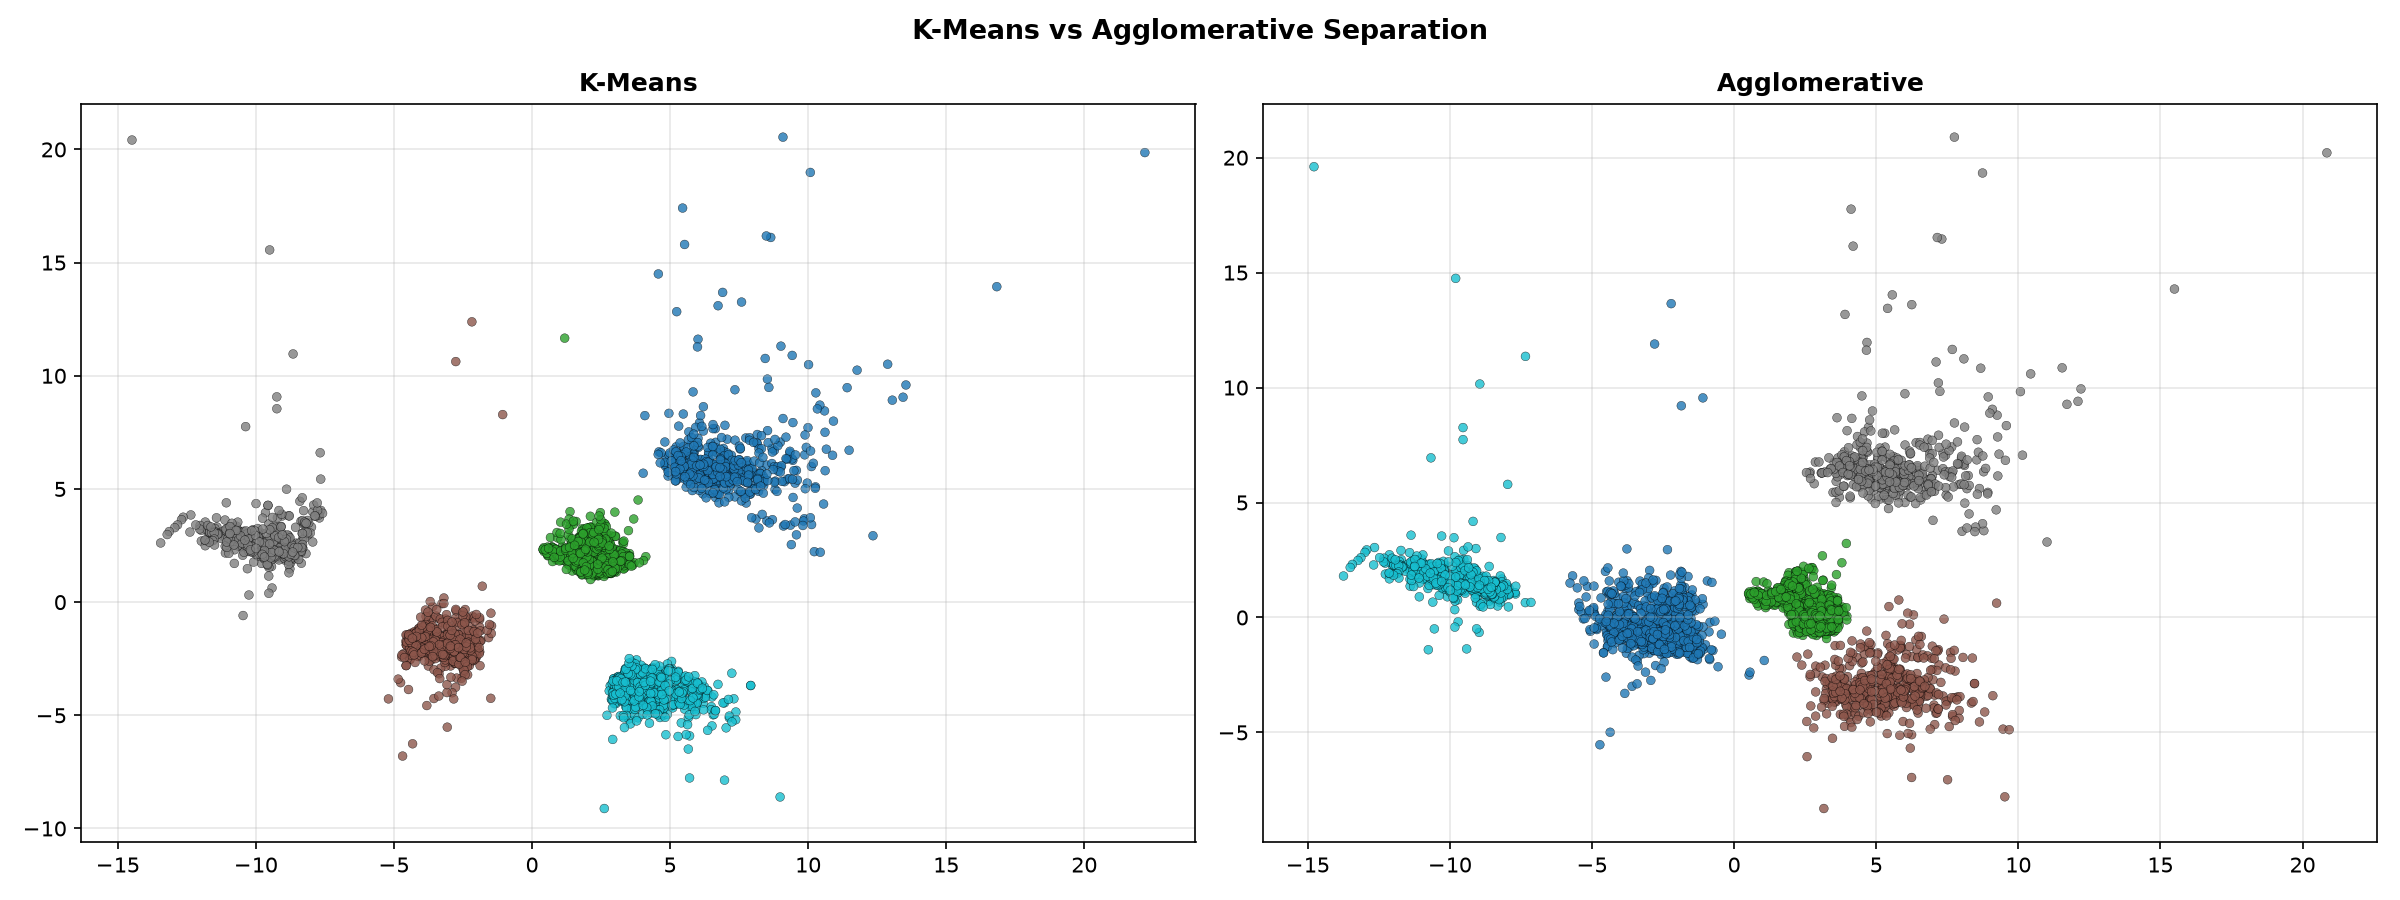
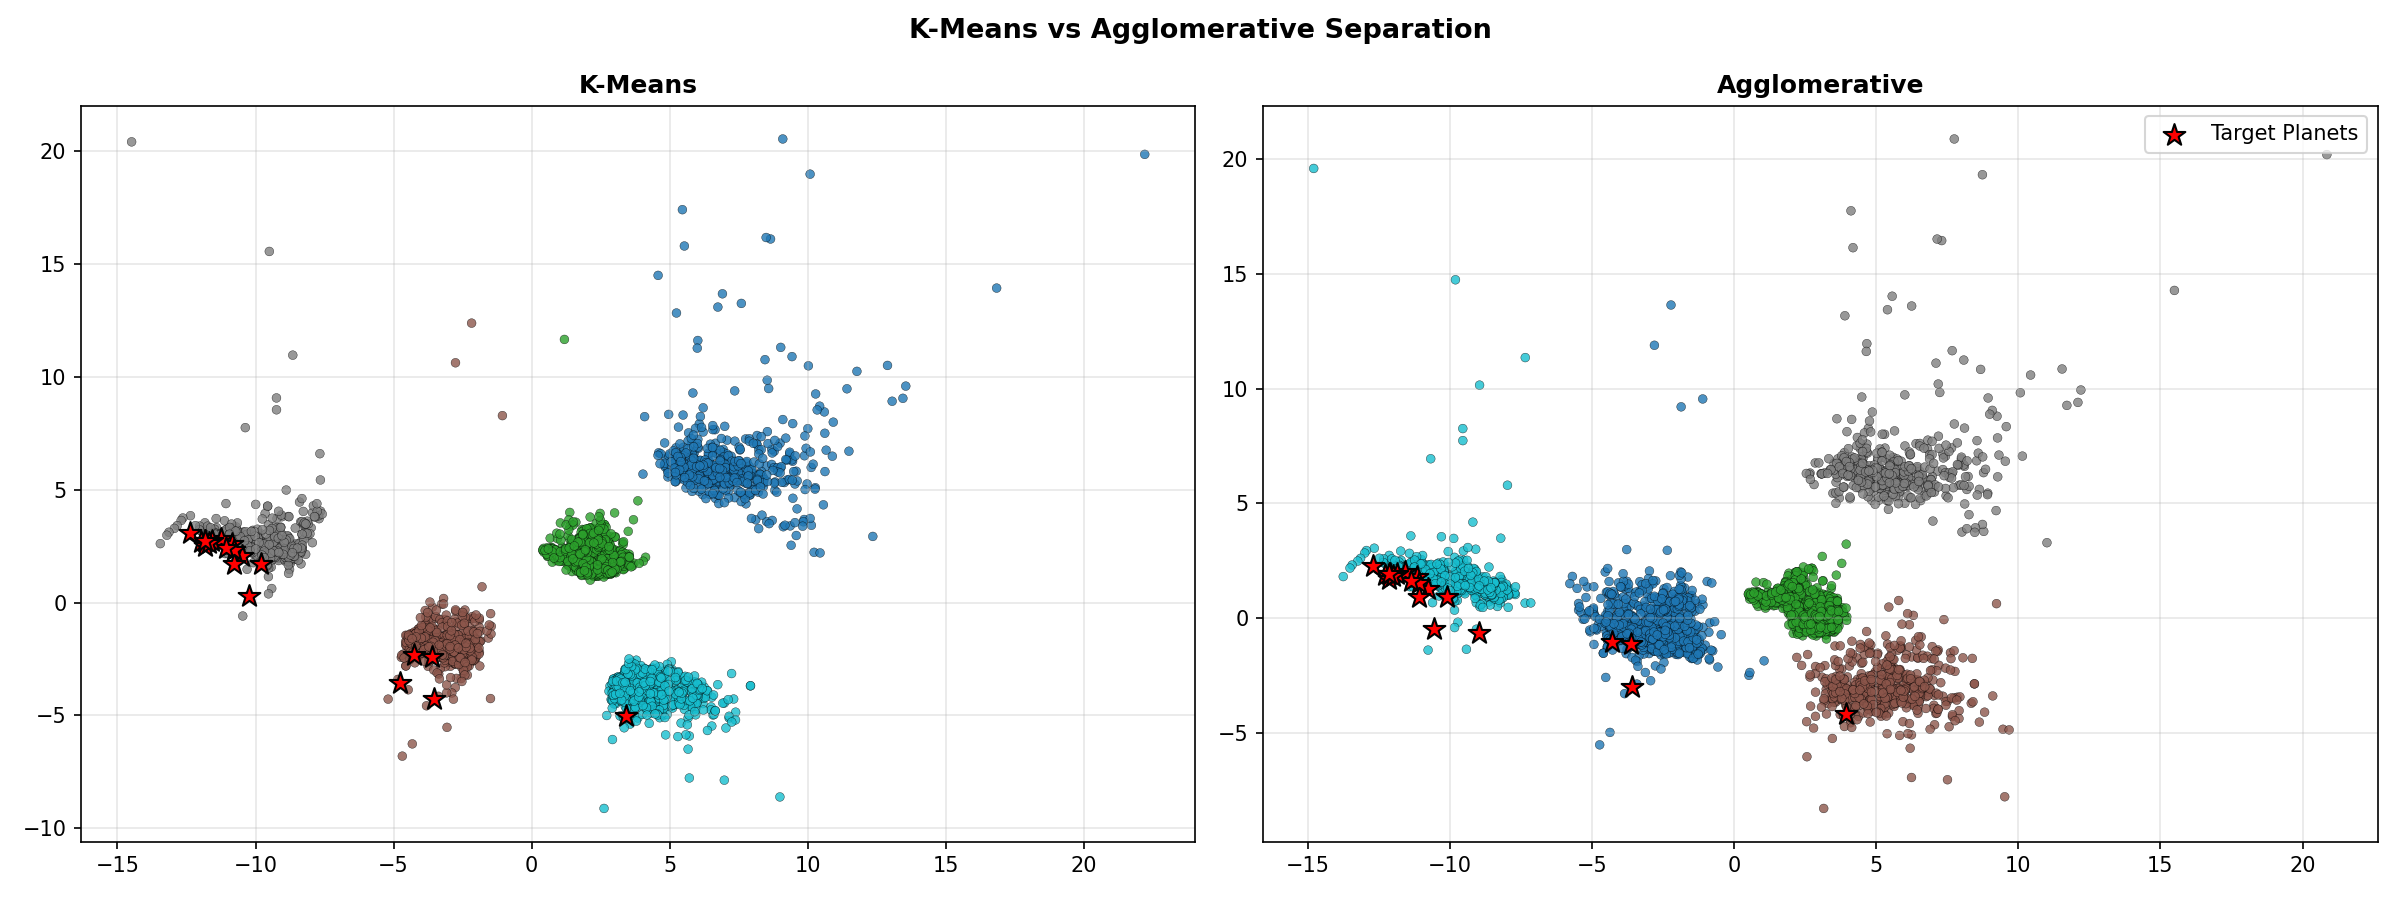
Update paper to use side-by-side clustering images

diff --git a/dm.py b/dm.py
@@ -22,6 +22,8 @@ ALL FIXES INTEGRATED:
 
 import pandas as pd
 import numpy as np
+import matplotlib
+matplotlib.use('Agg')
 import matplotlib.pyplot as plt
 import matplotlib.patches as mpatches
 import seaborn as sns
@@ -684,6 +686,22 @@ sc = ax.scatter(
     linewidths=0.2
 )
 
+# Highlight target planets
+target_mask = df_feat["pl_name"].isin(TARGET_PLANETS)
+if target_mask.any():
+    ax.scatter(
+        X_adjusted[target_mask, 0],
+        X_adjusted[target_mask, 1],
+        color="red",
+        marker="*",
+        s=120,
+        edgecolors="black",
+        linewidths=1.0,
+        label="Target Planets",
+        zorder=10
+    )
+    ax.legend()
+
 cbar = plt.colorbar(sc, ax=ax, ticks=range(K_FINAL))
 cbar.set_label("K-Means Cluster")
 
@@ -694,7 +712,10 @@ ax.set_title("K-Means Clusters - Separation (PCA-based)", fontweight="bold")
 ax.grid(True, alpha=0.3)
 plt.tight_layout()
 plt.savefig("plot10_kmeans_islands.png", dpi=150)
-plt.show()
+plt.show(block=False)
+plt.close()
+
+
 
 
 # Plot 11: Cluster Sizes (FIXED colormap)
@@ -710,7 +731,8 @@ for i, v in zip(cluster_counts.index, cluster_counts.values):
     ax.text(i, v + 5, str(v), ha="center", fontsize=9)
 plt.tight_layout()
 plt.savefig("plot11_kmeans_cluster_sizes.png", dpi=150)
-plt.show()
+plt.show(block=False)
+plt.close()
 print("  -> Plot 11 saved: K-Means Cluster Sizes")
 
 # Plot 12: Cluster Summary Table (BETTER THAN HEATMAP)
@@ -920,6 +942,15 @@ sc1 = axes[0].scatter(
     edgecolors="black",
     linewidths=0.2
 )
+
+target_mask = df_feat["pl_name"].isin(TARGET_PLANETS)
+if target_mask.any():
+    axes[0].scatter(
+        X_adjusted_km[target_mask, 0],
+        X_adjusted_km[target_mask, 1],
+        color="red", marker="*", s=120, edgecolors="black", linewidths=1.0, zorder=10
+    )
+
 axes[0].set_title("K-Means", fontweight="bold")
 axes[0].grid(True, alpha=0.3)
 
@@ -936,6 +967,15 @@ sc2 = axes[1].scatter(
     edgecolors="black",
     linewidths=0.2
 )
+
+if target_mask.any():
+    axes[1].scatter(
+        X_adjusted_agg[target_mask, 0],
+        X_adjusted_agg[target_mask, 1],
+        color="red", marker="*", s=120, edgecolors="black", linewidths=1.0, zorder=10, label="Target Planets"
+    )
+    axes[1].legend()
+
 axes[1].set_title("Agglomerative", fontweight="bold")
 axes[1].grid(True, alpha=0.3)
 
@@ -945,6 +985,80 @@ plt.suptitle("K-Means vs Agglomerative Separation",
 plt.tight_layout()
 plt.savefig("plot10C_comparison.png", dpi=150)
 plt.show()
+plt.close()
+
+# ============================================================
+# Plot 10B: Agglomerative Clusters — Smart Separated Island View
+# ============================================================
+fig, ax = plt.subplots(figsize=(9, 6))
+
+sc_agg = ax.scatter(
+    X_adjusted_agg[:, 0],
+    X_adjusted_agg[:, 1],
+    c=df_feat["agg_cluster"],
+    cmap=plt.get_cmap("tab10", K_FINAL),
+    vmin=-0.5,
+    vmax=K_FINAL - 0.5,
+    s=18,
+    alpha=0.8,
+    edgecolors="black",
+    linewidths=0.2
+)
+
+# Highlight target planets
+target_mask = df_feat["pl_name"].isin(TARGET_PLANETS)
+if target_mask.any():
+    ax.scatter(
+        X_adjusted_agg[target_mask, 0],
+        X_adjusted_agg[target_mask, 1],
+        color="red",
+        marker="*",
+        s=120,
+        edgecolors="black",
+        linewidths=1.0,
+        label="Target Planets",
+        zorder=10
+    )
+    ax.legend()
+
+cbar_agg = plt.colorbar(sc_agg, ax=ax, ticks=range(K_FINAL))
+cbar_agg.set_label("Agglomerative Cluster")
+
+ax.set_xlabel("PCA Component 1")
+ax.set_ylabel("PCA Component 2")
+ax.set_title("Agglomerative Clusters - Separation (PCA-based)", fontweight="bold")
+
+ax.grid(True, alpha=0.3)
+plt.tight_layout()
+plt.savefig("plot10B_agglomerative_islands.png", dpi=150)
+plt.show()
+plt.close()
+
+# Plot 11C: Cluster Sizes Comparison
+fig, axes = plt.subplots(1, 2, figsize=(14, 5))
+km_counts = df_feat["km_cluster"].value_counts().sort_index()
+agg_counts = df_feat["agg_cluster"].value_counts().sort_index()
+
+axes[0].bar(km_counts.index, km_counts.values, color=tab10_colors, edgecolor="black")
+axes[0].set_xlabel("Cluster ID", fontsize=11)
+axes[0].set_ylabel("Number of Planets", fontsize=11)
+axes[0].set_title(f"K-Means Cluster Sizes", fontsize=12, fontweight="bold")
+axes[0].grid(axis="y", alpha=0.3)
+for i, v in zip(km_counts.index, km_counts.values):
+    axes[0].text(i, v + 5, str(v), ha="center", fontsize=9)
+
+axes[1].bar(agg_counts.index, agg_counts.values, color=tab10_colors, edgecolor="black")
+axes[1].set_xlabel("Cluster ID", fontsize=11)
+axes[1].set_title(f"Agglomerative Cluster Sizes", fontsize=12, fontweight="bold")
+axes[1].grid(axis="y", alpha=0.3)
+for i, v in zip(agg_counts.index, agg_counts.values):
+    axes[1].text(i, v + 5, str(v), ha="center", fontsize=9)
+
+plt.suptitle("K-Means vs Agglomerative Cluster Distributions", fontsize=14, fontweight="bold")
+plt.tight_layout()
+plt.savefig("plot11C_cluster_sizes_comparison.png", dpi=150)
+plt.show(block=False)
+plt.close()
 
 # Plot 15: Side-by-side Radius vs Temperature
 fig, axes = plt.subplots(1, 2, figsize=(16, 6))

diff --git a/paper.tex b/paper.tex
@@ -143,15 +143,15 @@ Many researchers mistakenly rely exclusively on the Silhouette Score. However, i
 \end{figure}
 
 \begin{figure}[htbp]
-\centerline{\includegraphics[width=\columnwidth]{plot10_kmeans_islands.png}}
-\caption{K-Means ($k=5$) assignments projected onto two leading PCA components, confirming distinct cluster separability.}
-\label{fig:kmeans_pca}
+\centerline{\includegraphics[width=\linewidth]{plot10C_comparison.png}}
+\caption{Side-by-side visualization of K-Means and Agglomerative Hierarchical clustering executed on the exact same PCA-transformed structural feature space.}
+\label{fig:kmeans_vs_agg_pca}
 \end{figure}
 
 \begin{figure}[htbp]
-\centerline{\includegraphics[width=\columnwidth]{plot15_kmeans_vs_agglomerative.png}}
-\caption{Side-by-side comparison of K-Means and Agglomerative Hierarchical clustering executed on the exact same PCA-transformed structural feature space.}
-\label{fig:kmeans_vs_agg}
+\centerline{\includegraphics[width=\linewidth]{plot11C_cluster_sizes_comparison.png}}
+\caption{Comparison of cluster population sizes between K-Means and Agglomerative algorithms.}
+\label{fig:cluster_sizes_comparison}
 \end{figure}
 
 \section{Results and Analysis}